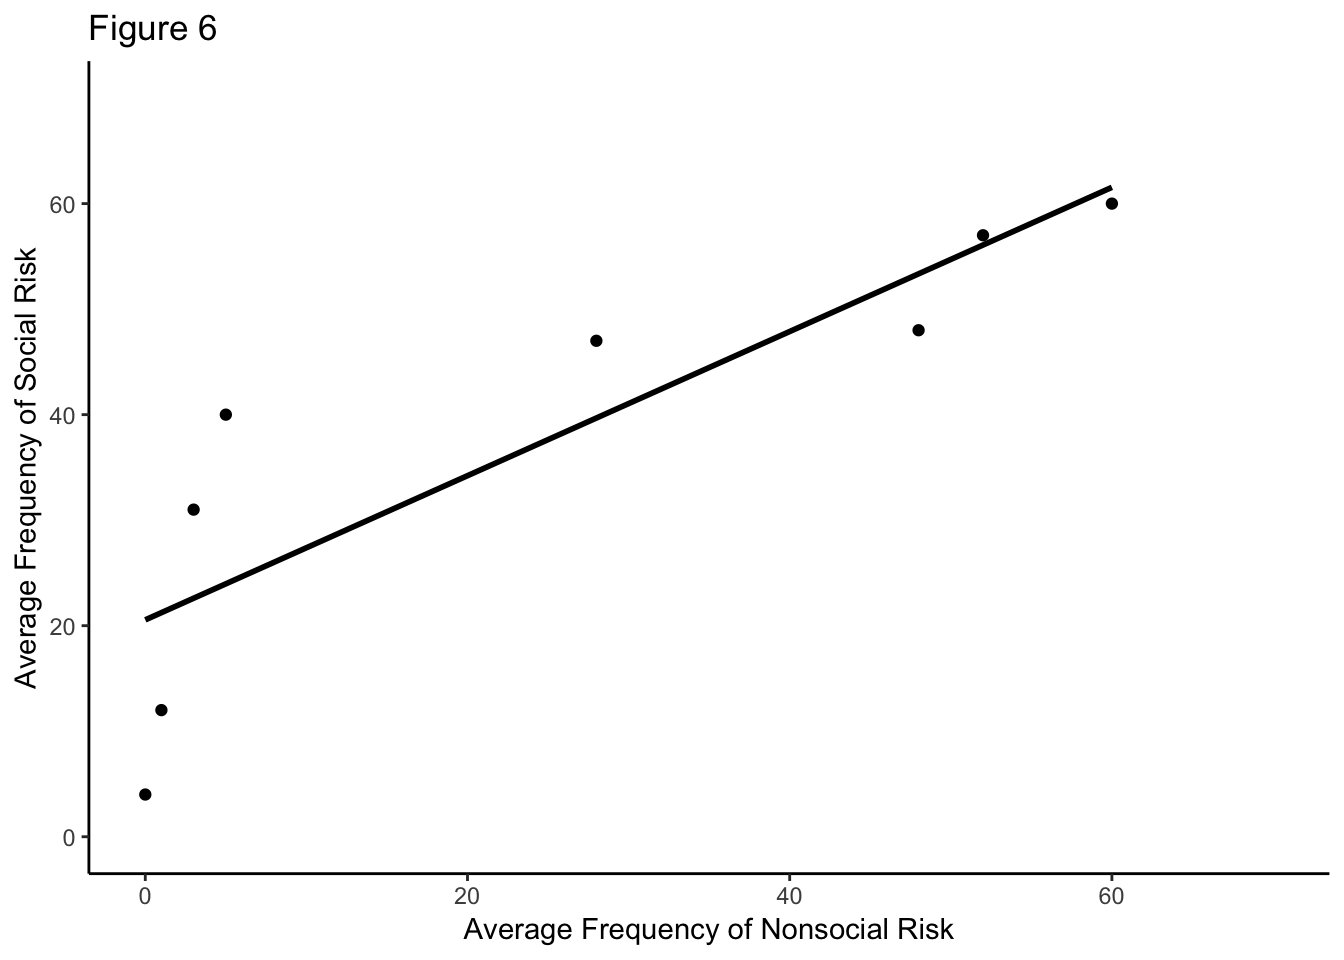
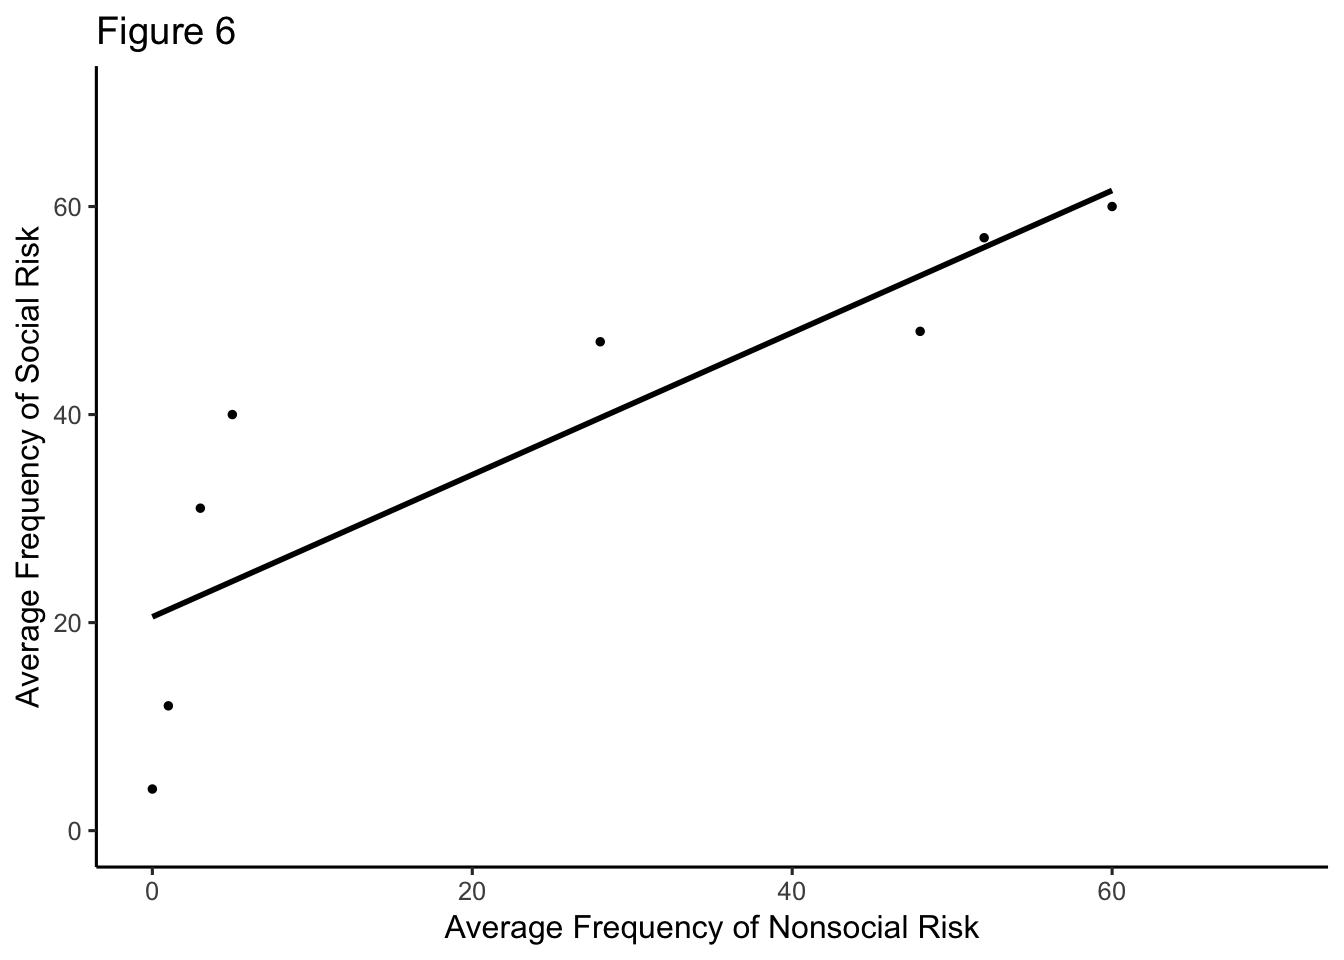
more gg

diff --git a/docs/GGPlot.html b/docs/GGPlot.html
@@ -421,30 +421,35 @@ avg_freq_r &lt;- c(4,12,31,40,47,48,57,60)
 plot_freq_soc &lt;- data.frame(avg_freq_r,avg_freq_nr)
 
 ggplot(data=plot_freq_soc, aes(x=avg_freq_nr,y=avg_freq_r))+
-  geom_point()+
+  geom_point(size=1)+
   geom_smooth(method = &quot;lm&quot;, se=FALSE, color=&#39;BLACK&#39;)+
   coord_cartesian(xlim=c(0,70),ylim=c(0,70))+
   xlab(&quot;Average Frequency of Nonsocial Risk&quot;)+
   ylab(&quot;Average Frequency of Social Risk&quot;)+
-  theme_classic()+
+  theme_classic(base_size=12)+
   ggtitle(&quot;Figure 6&quot;)</code></pre>
 <p><img src="GGPlot_files/figure-html/unnamed-chunk-1-1.png" width="672" /></p>
 <pre class="r"><code>#how do you get regression line at zero &amp; 70 to show... control the ticks?</code></pre>
 <pre class="r"><code>#figure 4 evaluation of person X; man &amp; woman communicated w ATC
 library(ggplot2)
-evalp&lt;- c(1,2,3,4,5,6,7)
-man &lt;- c(91, 90, 89, 89, 88, 88, 87)
-woman&lt;- c(82, 74, 68, 65, 55, 50, 45)
-target &lt;- c(0, 10, 20, 30, 40, 50, 60, 70, 80, 90, 100)
-evalopX &lt;- data.frame(evalp,man,woman)
+evalp&lt;- rep(c(1,2,3,4,5,6,7),2)
+#man &lt;- c(91, 90, 89, 89, 88, 88, 87)
+#woman&lt;- c(82, 74, 68, 65, 55, 50, 45)
+target &lt;- c(91, 90, 89, 89, 88, 88, 87,82, 74, 68, 65, 55, 50, 45)
+person&lt;- rep(c(&quot;Man Communicated with ATC&quot;,&quot;Woman Communicated with ATC&quot;),times=c(7,7))
+evalopX &lt;- data.frame(evalp,target,person)
 
-ggplot(data = evalopX, aes(x=evalp))</code></pre>
+ggplot(data = evalopX, aes(x=evalp,y=target,group=person))+
+  geom_smooth(method=lm,size=2)+
+  ylab(&quot;Evaluation of Person X&quot;)+
+  xlab(&quot;P(Target = Pilot)&quot;)+
+  ggtitle(&quot;Fig. 4 Results from Study 5&quot;)</code></pre>
 <p><img src="GGPlot_files/figure-html/unnamed-chunk-2-1.png" width="672" /></p>
-<pre class="r"><code># stuck bc how do i get the y axis to be 2 lines</code></pre>
+<pre class="r"><code>#why does only 1 line have the gray surrounding </code></pre>
 <pre class="r"><code>#figure 2 A.visual group B.auditory group
 fac_one &lt;- rep(rep(as.factor(c(&quot;No Transient&quot;, &quot;Transient&quot;)),2),2)
 fac_two &lt;- rep(rep(as.factor(c(&quot;Outside&quot;,&quot;Inside&quot;)),2),2)
-fac_three&lt;- c(&quot;Visual Group&quot;, &quot;Auditory Group&quot;)
+fac_three&lt;- rep(as.factor(c(&quot;Visual Group&quot;, &quot;Auditory Group&quot;)),each=4)
 meanmed&lt;- c(305,300,290,275,295,290,265,250)
 er&lt;- c(23,20,22,20,17,20,15,20)
 fig2&lt;- data.frame(fac_one,
@@ -457,7 +462,21 @@ ggplot(data=fig2, aes(x=fac_one, y=meanmed, group=fac_three))+
   geom_bar(stat=&quot;identity&quot;,position=&quot;dodge&quot;)+
   facet_wrap(~fac_three)</code></pre>
 <p><img src="GGPlot_files/figure-html/unnamed-chunk-3-1.png" width="672" /></p>
-<pre class="r"><code>#data not distributed right</code></pre>
+<pre class="r"><code>#data not distributed right, should be 4 bars in each graph</code></pre>
+<pre class="r"><code># Class example redone w additional layers
+
+Namez&lt;- rep(c(&quot;Dara&quot;,&quot;Azalea&quot;,&quot;Barbi&quot;,&quot;Rowena&quot;,&quot;Fiona&quot; ),each=2)
+MF &lt;- rnorm(10,45,25)
+Condition &lt;- rep(c(&quot;Social&quot;, &quot;Nonsocial&quot;),5)
+Aversion &lt;- rep(c(&quot;A&quot;,&quot;N_A&quot;),times=c(4,6))
+Fig5&lt;- data.frame(Namez,MF,Condition,Aversion)
+
+ggplot(data=Fig5, aes(x=Condition,y=MF,group=Namez, linetype=Aversion))+ #parantheses matter,pay attention
+  geom_line()+
+  geom_text(label=Namez)+
+  theme_classic()+
+  ylab(&quot;Mean Frequency of Risky Choice&quot;)</code></pre>
+<p><img src="GGPlot_files/figure-html/unnamed-chunk-4-1.png" width="672" /></p>
 
 
 
